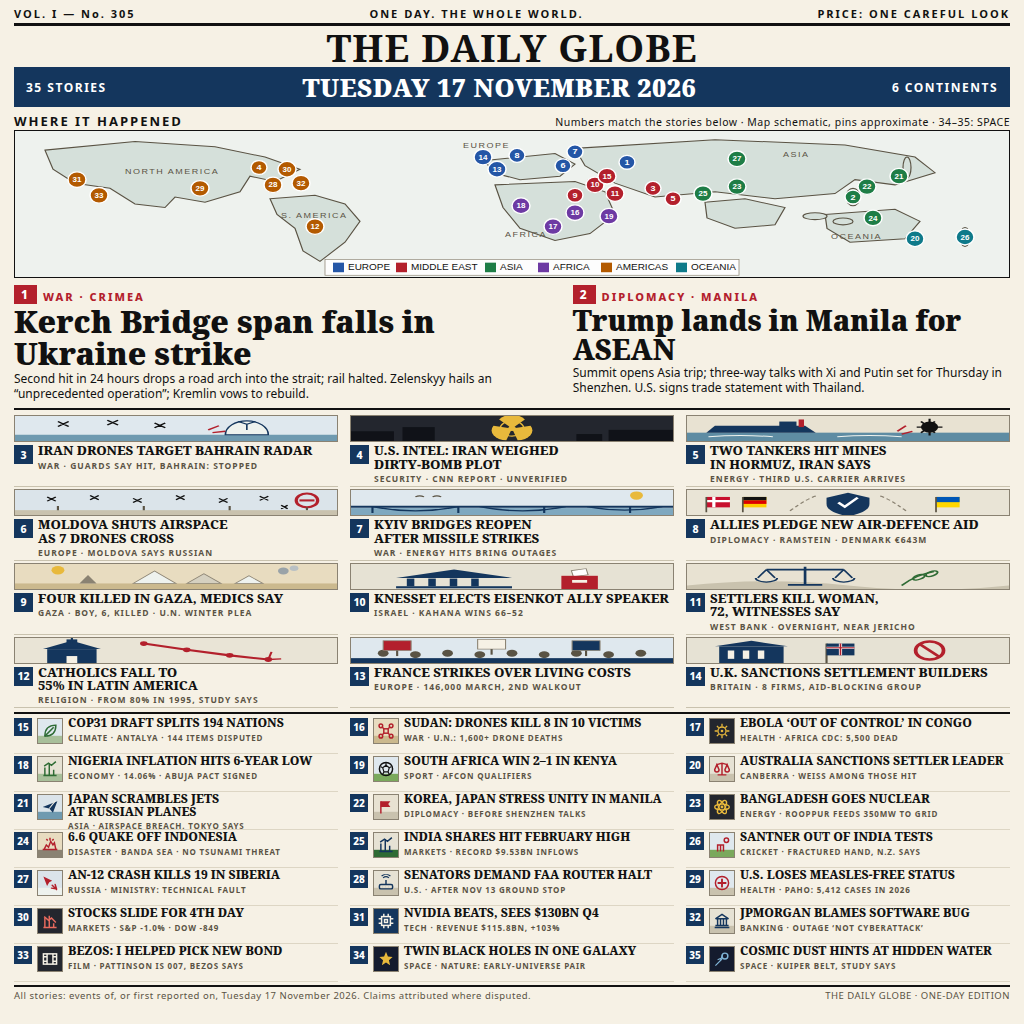
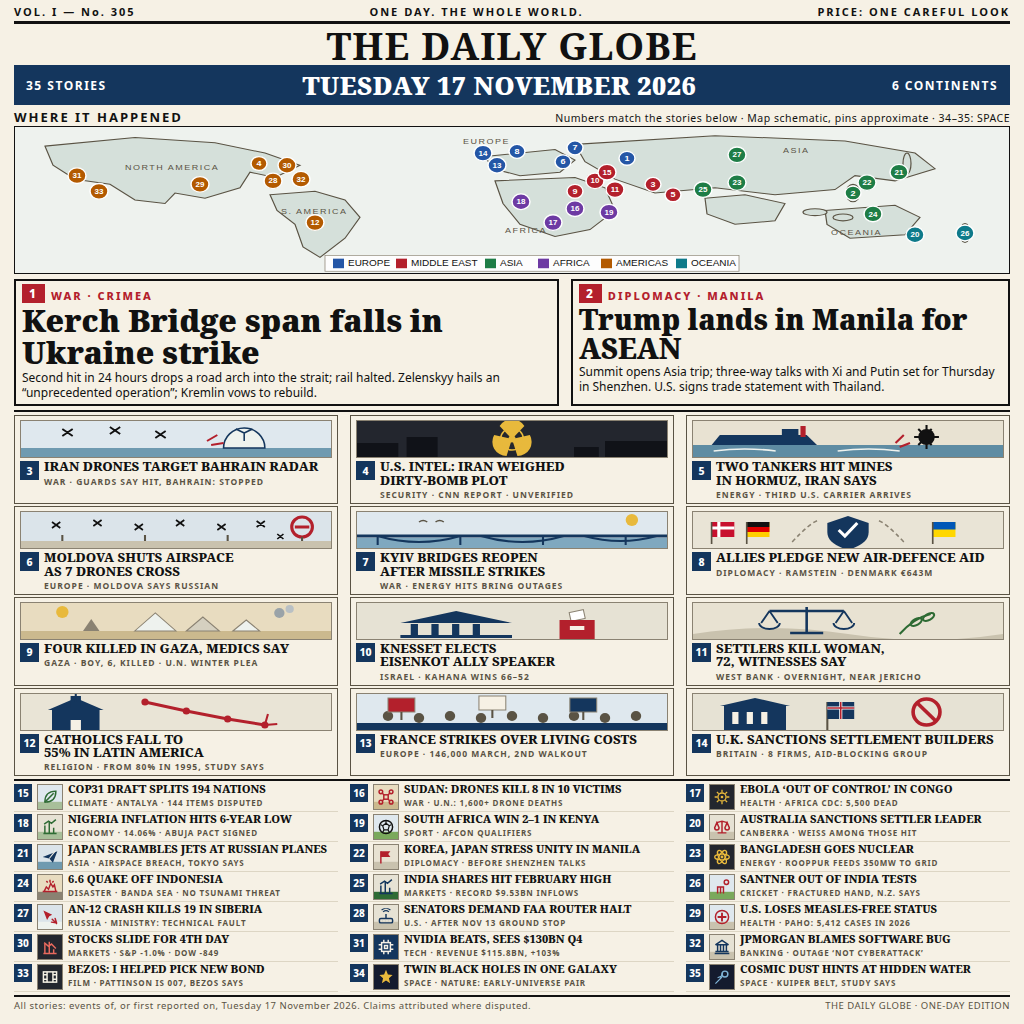
v3.1: framed leads, taller framed cards, uniform 1-line index rows

diff --git a/render.html b/render.html
@@ -4,7 +4,7 @@
   *{margin:0;padding:0;box-sizing:border-box}
   body{width:1024px;height:1024px;background:#f6f1e5;color:#111;
     font-family:"Noto Sans","DejaVu Sans",sans-serif;overflow:hidden}
-  .page{padding:6px 14px 5px}
+  .page{padding:4px 14px 5px}
   /* masthead */
   .topbar{display:flex;justify-content:space-between;font-size:11px;letter-spacing:2px;
     font-weight:700;border-bottom:3px solid #111;padding-bottom:2px}
@@ -15,8 +15,8 @@
   .dateline .d{font-family:"Noto Serif","DejaVu Serif",Georgia,serif;font-size:25px;font-weight:900;letter-spacing:.5px}
   .dateline .s{font-size:12px;font-weight:700;letter-spacing:1.5px}
   /* features */
-  .leads{display:flex;gap:12px;margin-top:7px;border-bottom:2px solid #111;padding-bottom:7px}
-  .lead{flex:1}
+  .leads{display:flex;gap:12px;margin-top:5px;border-bottom:2px solid #111;padding-bottom:4px}
+  .lead{flex:1;border:2px solid #111;padding:3px 6px 4px}
   .lead.big{flex:1.25}
   .kick{font-size:11px;font-weight:800;letter-spacing:2px;color:#b3202c}
   .lead h2{font-family:"Noto Serif","DejaVu Serif",Georgia,serif;font-size:28px;line-height:1.02;
@@ -26,15 +26,15 @@
   .lead .num{display:inline-block;background:#b3202c;color:#fff;font-weight:800;font-size:12px;
     padding:1px 7px;margin-right:6px;vertical-align:2px}
   /* map */
-  .maphead{display:flex;justify-content:space-between;align-items:baseline;margin-top:5px}
+  .maphead{display:flex;justify-content:space-between;align-items:baseline;margin-top:3px}
   .maphead b{font-size:13px;letter-spacing:2px}
   .maphead span{font-size:10.5px;letter-spacing:.5px}
   .map{border:1.5px solid #111;background:#eef2ee;position:relative}
   .map svg{display:block}
   /* illustrated cards */
-  .cards{display:grid;grid-template-columns:1fr 1fr 1fr;gap:2px 12px;margin-top:5px}
-  .card{border-bottom:1px solid #c9c2ae;padding-bottom:2px}
-  .cardart{display:block;width:100%;height:27px;border:1px solid #8a8272;margin-bottom:2px}
+  .cards{display:grid;grid-template-columns:1fr 1fr 1fr;gap:2px 12px;margin-top:3px}
+  .card{border:1.5px solid #5a5344;padding:4px 5px 3px}
+  .cardart{display:block;width:100%;height:38px;border:1px solid #8a8272;margin-bottom:2px}
   .row{display:flex;gap:5px;align-items:flex-start}
   .n2{flex:0 0 19px;height:19px;background:#14365d;color:#fff;font-size:10.5px;font-weight:800;
     display:flex;align-items:center;justify-content:center;margin-top:1px}
@@ -42,13 +42,13 @@
     line-height:1.03;text-wrap:balance}
   .l{font-size:8.5px;font-weight:700;letter-spacing:1px;color:#5a5344;margin-top:2px}
   /* compact index */
-  .index{display:grid;grid-template-columns:1fr 1fr 1fr;gap:0 12px;margin-top:4px;border-top:2px solid #111;padding-top:2px}
+  .index{display:grid;grid-template-columns:1fr 1fr 1fr;gap:0 12px;margin-top:3px;border-top:2px solid #111;padding-top:1px}
   .idx{display:flex;gap:5px;align-items:flex-start;border-bottom:1px solid #ddd6c4;
-    padding:1px 0;height:38px;overflow:hidden}
+    padding:1px 0;height:30px;overflow:hidden}
   .n{flex:0 0 18px;height:18px;background:#14365d;color:#fff;font-size:10px;font-weight:800;
     display:flex;align-items:center;justify-content:center;margin-top:1px}
   .chip{flex:0 0 26px;width:26px;height:26px;border:1px solid #8a8272;margin-top:1px}
-  .idx .h{font-size:12px;line-height:1.04}
+  .idx .h{font-size:11px;line-height:1.04;letter-spacing:0}
   .idx .l{font-size:8px;letter-spacing:.8px}
   .foot{display:flex;justify-content:space-between;font-size:9.5px;color:#5a5344;
     border-top:2px solid #111;margin-top:3px;padding-top:2px;letter-spacing:.5px}
